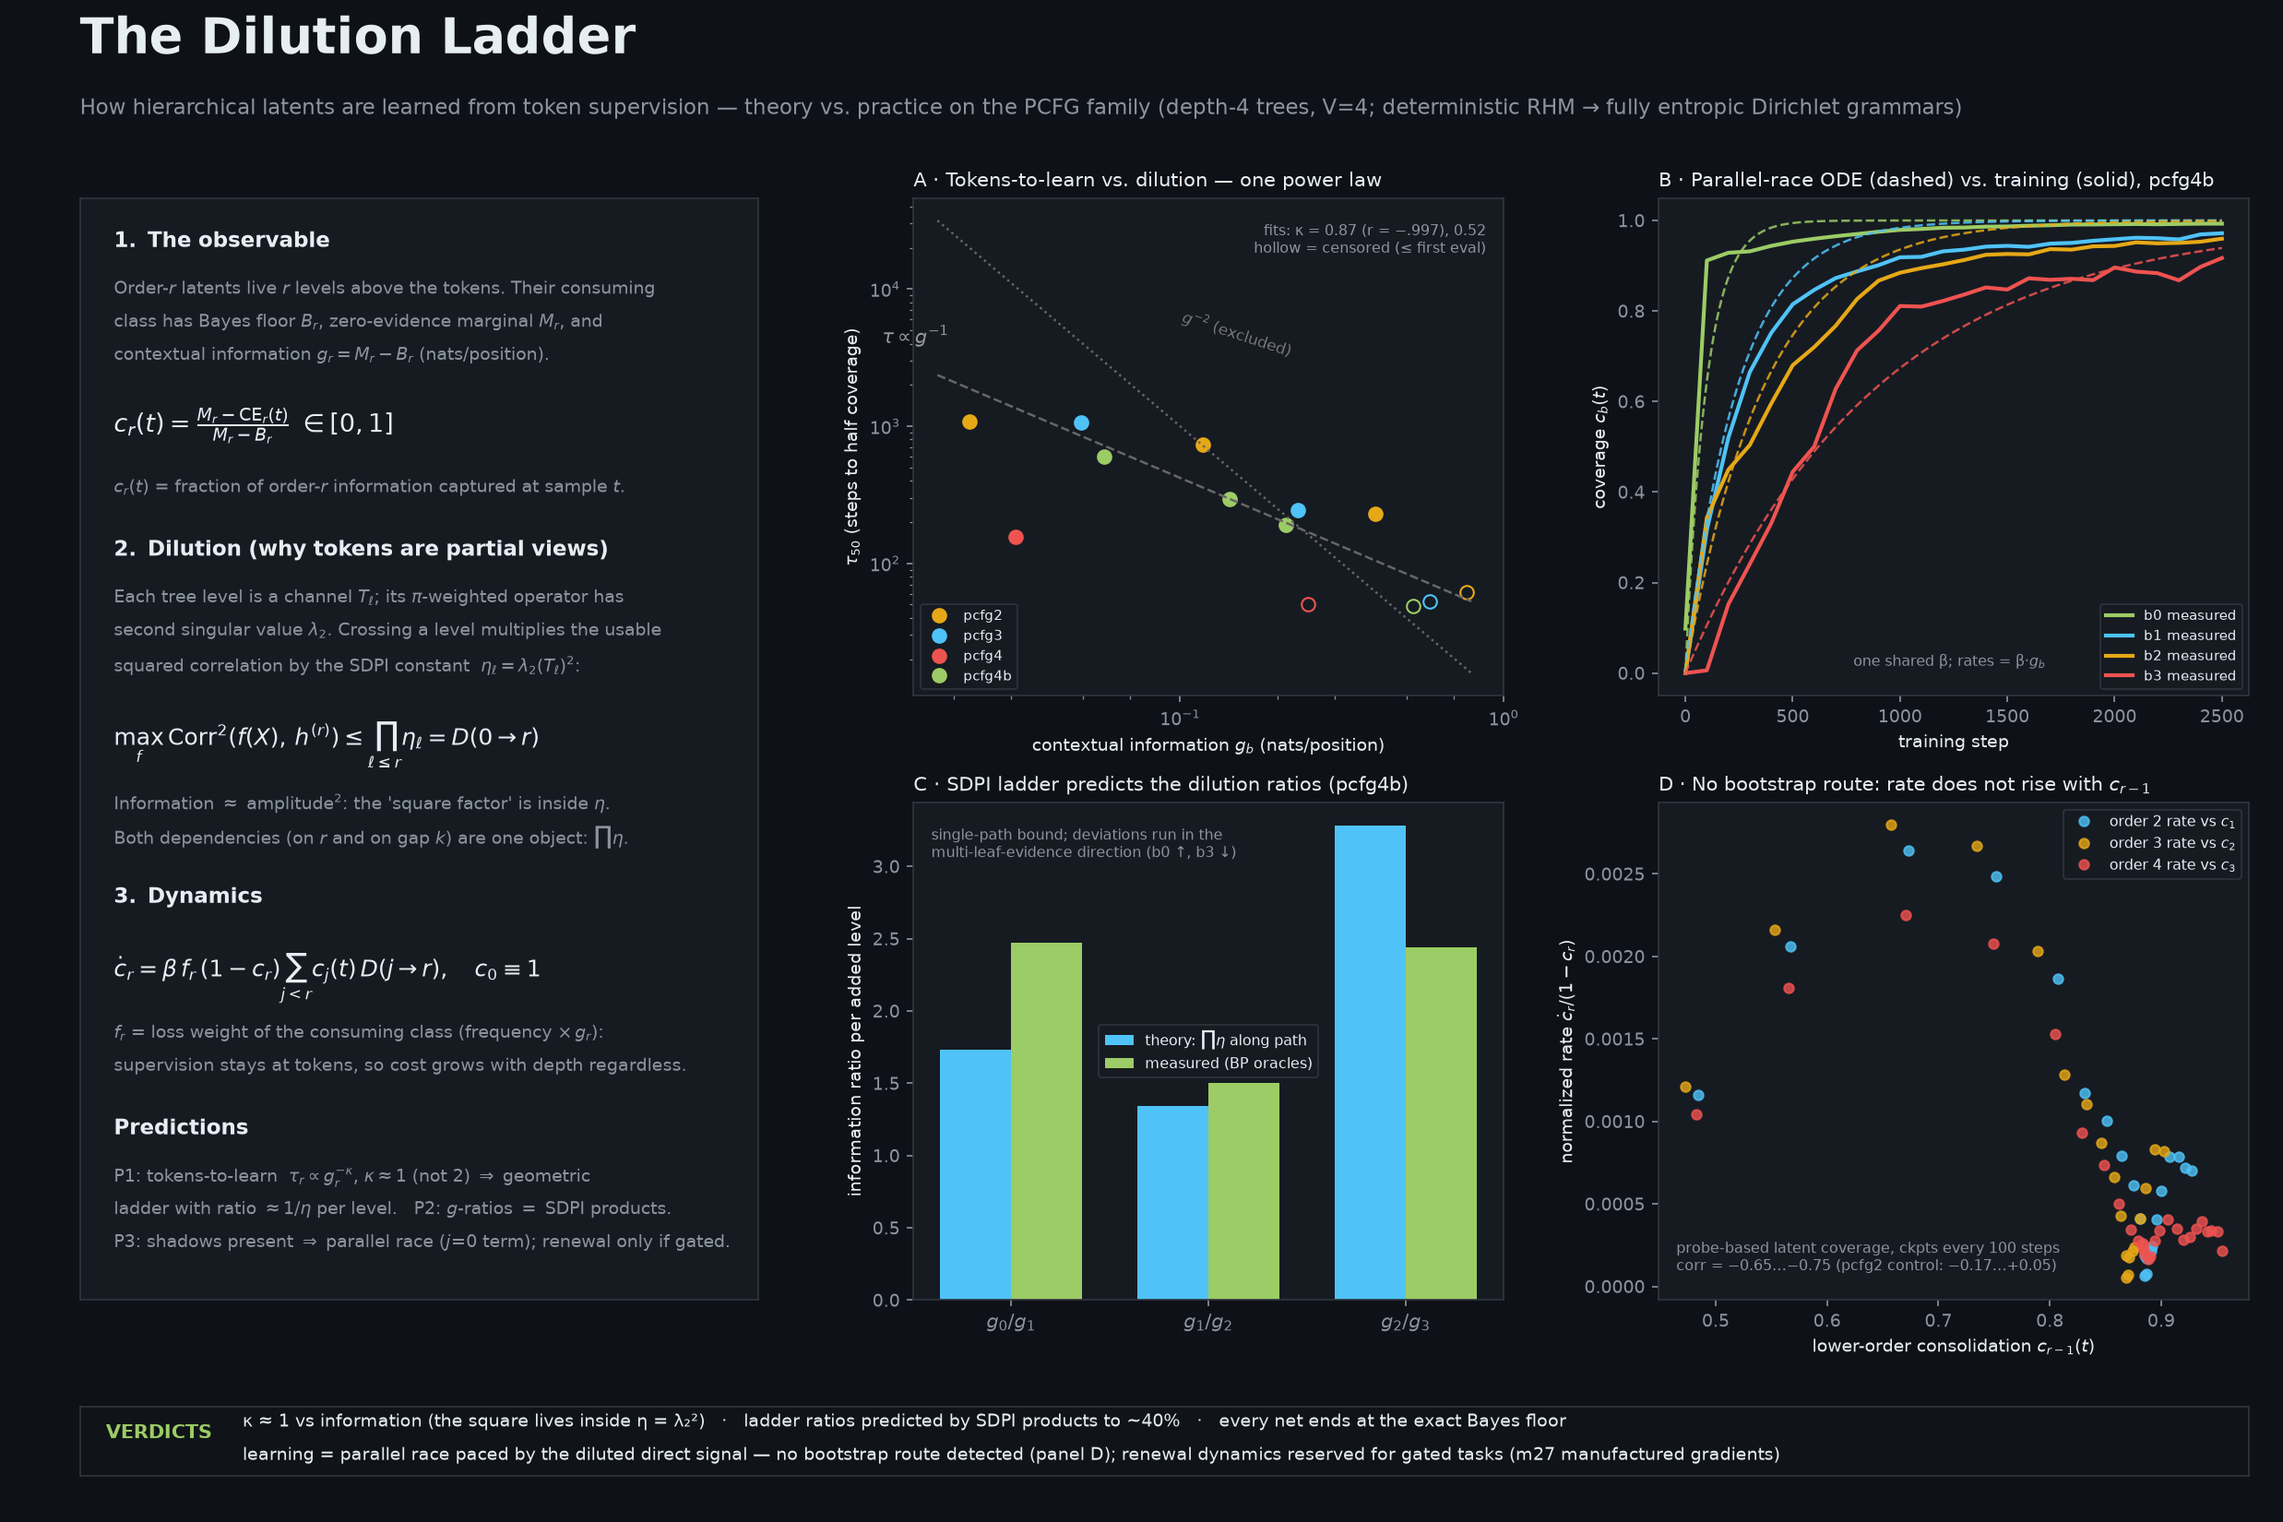
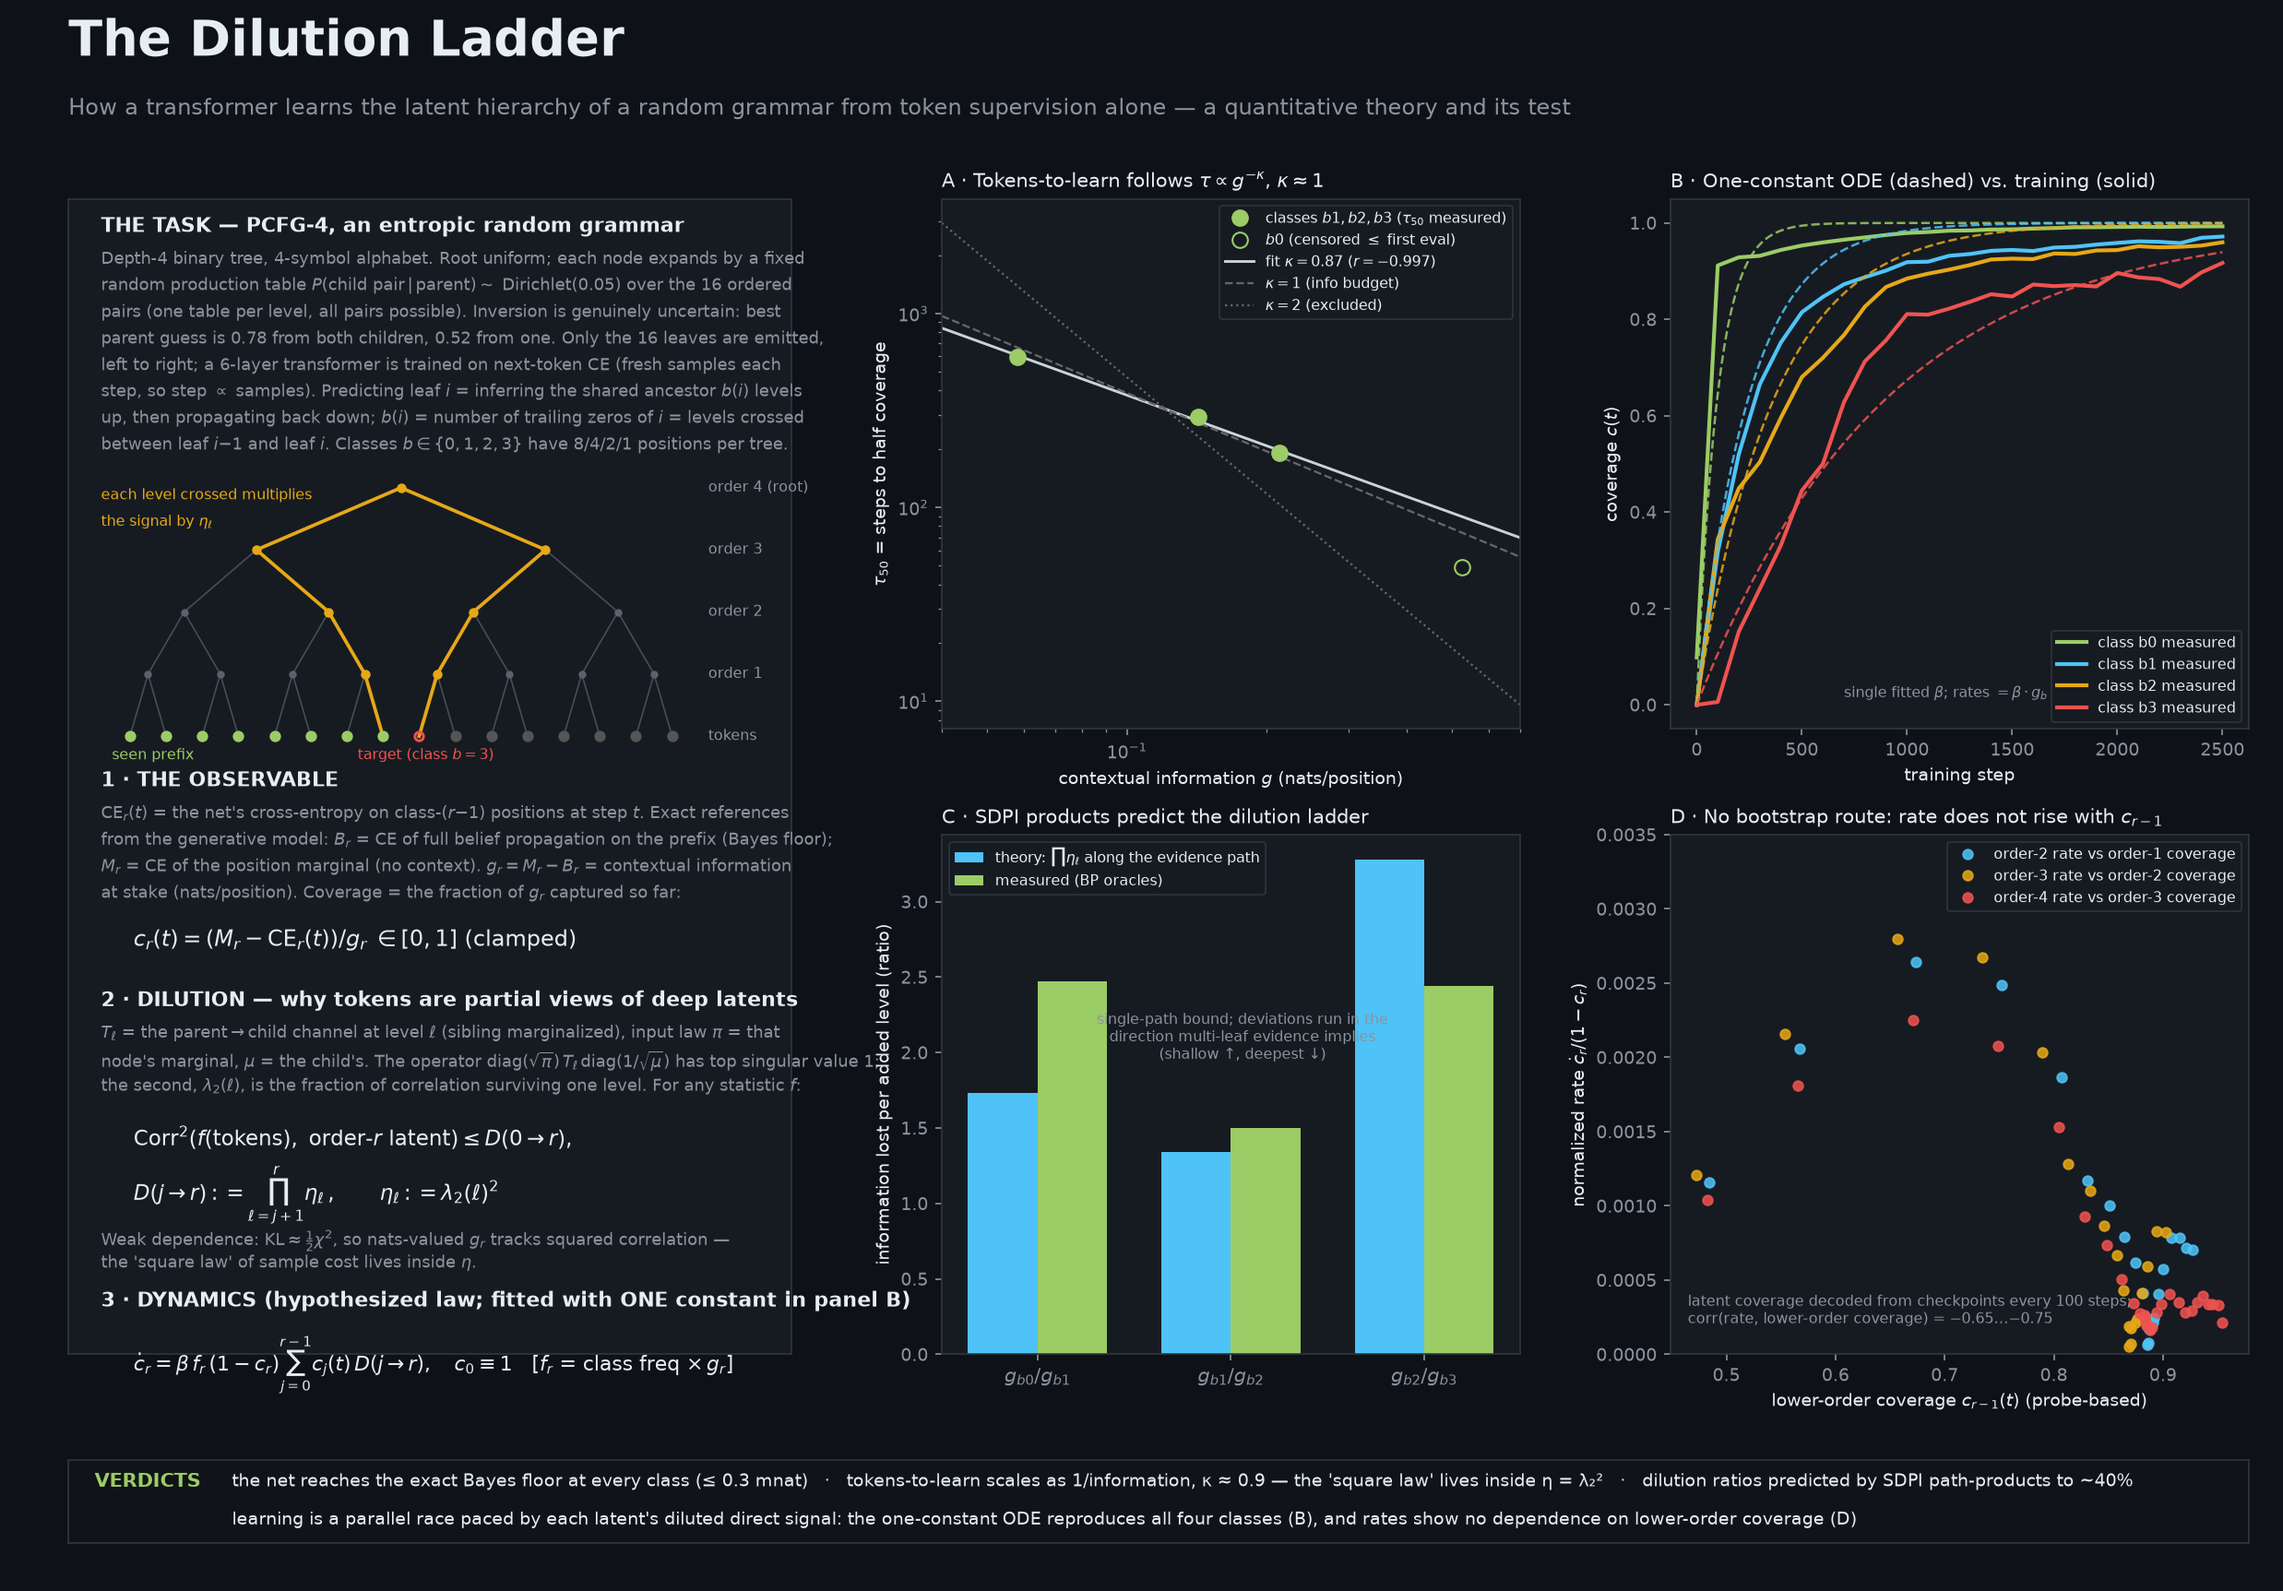
poster v2: single-task (PCFG-4) with task box + tree schematic; theory text repaired against Codex fresh-eyes review

diff --git a/correction_geometry/poster_ladder2.py b/correction_geometry/poster_ladder2.py
@@ -1,0 +1,178 @@
+import json
+import numpy as np
+import matplotlib
+matplotlib.use("Agg")
+import matplotlib.pyplot as plt
+import matplotlib.ticker as mtick
+from matplotlib.gridspec import GridSpec
+
+BG, PANEL, FG, DIM = "#0e1117", "#161b22", "#e6edf3", "#8b949e"
+GRN, BLU, AMB, RED = "#9ccc65", "#4fc3f7", "#e6a817", "#ef5350"
+plt.rcParams.update({"text.color": FG, "axes.edgecolor": "#30363d", "axes.labelcolor": FG,
+                     "xtick.color": DIM, "ytick.color": DIM, "font.size": 9})
+
+fig = plt.figure(figsize=(16.5, 11.5), facecolor=BG)
+gs = GridSpec(3, 3, figure=fig, width_ratios=[1.25, 1, 1], height_ratios=[1.02, 1, 0.16],
+              left=0.03, right=0.985, top=0.875, bottom=0.03, wspace=0.24, hspace=0.28)
+
+fig.text(0.03, 0.965, "The Dilution Ladder", fontsize=26, weight="bold", color=FG)
+fig.text(0.03, 0.928, "How a transformer learns the latent hierarchy of a random grammar from token supervision alone — a quantitative theory and its test",
+         fontsize=11.5, color=DIM)
+
+# ================= LEFT: task + theory =================
+axL = fig.add_subplot(gs[:2, 0]); axL.set_facecolor(PANEL); axL.set_xticks([]); axL.set_yticks([])
+for s in axL.spines.values(): s.set_color("#30363d")
+
+def T(y, s, c=DIM, fs=8.6, w="normal", x=0.045):
+    axL.text(x, y, s, transform=axL.transAxes, fontsize=fs, color=c, va="top", weight=w)
+
+T(0.985, "THE TASK — PCFG-4, an entropic random grammar", FG, 10.5, "bold")
+T(0.955, "Depth-4 binary tree, 4-symbol alphabet. Root uniform; each node expands by a fixed")
+T(0.932, r"random production table $P(\mathrm{child\ pair}\,|\,\mathrm{parent}) \sim$ Dirichlet(0.05) over the 16 ordered")
+T(0.909, "pairs (one table per level, all pairs possible). Inversion is genuinely uncertain: best")
+T(0.886, "parent guess is 0.78 from both children, 0.52 from one. Only the 16 leaves are emitted,")
+T(0.863, "left to right; a 6-layer transformer is trained on next-token CE (fresh samples each")
+T(0.840, r"step, so step $\propto$ samples). Predicting leaf $i$ = inferring the shared ancestor $b(i)$ levels")
+T(0.817, r"up, then propagating back down; $b(i)$ = number of trailing zeros of $i$ = levels crossed")
+T(0.794, r"between leaf $i{-}1$ and leaf $i$. Classes $b \in \{0,1,2,3\}$ have 8/4/2/1 positions per tree.")
+
+# --- tree schematic (drawn in axes coords, y in [0.52, 0.775]) ---
+ytop, ybot = 0.750, 0.535
+def nx(l, i): return 0.06 + 0.80 * (i + 0.5) / (2 ** l)
+def ny(l): return ytop - (ytop - ybot) * l / 4
+up_path = {(4, 7), (3, 3), (2, 1), (1, 0), (0, 0)}
+dn_path = {(0, 0), (1, 1), (2, 2), (3, 4), (4, 8)}
+for l in range(4):
+    for i in range(2 ** l):
+        for ch in (2 * i, 2 * i + 1):
+            on = ((l, i) in up_path and (l + 1, ch) in up_path) or ((l, i) in dn_path and (l + 1, ch) in dn_path)
+            axL.plot([nx(l, i), nx(l + 1, ch)], [ny(l), ny(l + 1)], color=AMB if on else "#454d56",
+                     lw=1.8 if on else 0.8, transform=axL.transAxes, zorder=1)
+for l in range(5):
+    for i in range(2 ** l):
+        if l == 4:
+            c = GRN if i < 8 else ("#555" if i > 8 else RED)
+            axL.plot(nx(l, i), ny(l), "o", ms=4.5, color=c, transform=axL.transAxes, zorder=2,
+                     mfc="none" if i == 8 else c, mew=1.4)
+        else:
+            on = (l, i) in up_path or (l, i) in dn_path
+            axL.plot(nx(l, i), ny(l), "o", ms=4 if on else 3, color=AMB if on else "#5a636d",
+                     transform=axL.transAxes, zorder=2)
+for l, lab in ((4, "tokens"), (3, "order 1"), (2, "order 2"), (1, "order 3"), (0, "order 4 (root)")):
+    axL.text(0.885, ny(l), lab, transform=axL.transAxes, fontsize=7.5, color=DIM, va="center")
+axL.text(0.06, ybot - 0.02, "seen prefix", transform=axL.transAxes, fontsize=7.5, color=GRN)
+axL.text(0.40, ybot - 0.02, r"target (class $b{=}3$)", transform=axL.transAxes, fontsize=7.5, color=RED)
+axL.text(0.045, ytop - 0.01, "each level crossed multiplies", transform=axL.transAxes, fontsize=7.5, color=AMB)
+axL.text(0.045, ytop - 0.033, r"the signal by $\eta_\ell$", transform=axL.transAxes, fontsize=7.5, color=AMB)
+
+T(0.505, "1 · THE OBSERVABLE", FG, 10.5, "bold")
+T(0.475, r"$\mathrm{CE}_r(t)$ = the net's cross-entropy on class-$(r{-}1)$ positions at step $t$. Exact references")
+T(0.452, r"from the generative model: $B_r$ = CE of full belief propagation on the prefix (Bayes floor);")
+T(0.429, r"$M_r$ = CE of the position marginal (no context). $g_r = M_r - B_r$ = contextual information")
+T(0.406, r"at stake (nats/position). Coverage = the fraction of $g_r$ captured so far:")
+T(0.368, r"$c_r(t) = \left(M_r - \mathrm{CE}_r(t)\right) / g_r \;\in [0,1]$ (clamped)", FG, 11.5, x=0.09)
+
+T(0.315, "2 · DILUTION — why tokens are partial views of deep latents", FG, 10.5, "bold")
+T(0.285, r"$T_\ell$ = the parent$\to$child channel at level $\ell$ (sibling marginalized), input law $\pi$ = that")
+T(0.262, r"node's marginal, $\mu$ = the child's. The operator $\mathrm{diag}(\sqrt{\pi})\,T_\ell\,\mathrm{diag}(1/\sqrt{\mu})$ has top singular value 1;")
+T(0.239, r"the second, $\lambda_2(\ell)$, is the fraction of correlation surviving one level. For any statistic $f$:")
+T(0.198, r"$\mathrm{Corr}^2(f(\mathrm{tokens}),\ \mathrm{order}$-$r\ \mathrm{latent}) \leq D(0{\to}r)$,", FG, 11, x=0.09)
+T(0.163, r"$D(j{\to}r) := \prod_{\ell=j+1}^{r} \eta_\ell\,, \qquad \eta_\ell := \lambda_2(\ell)^2$", FG, 11, x=0.09)
+T(0.108, r"Weak dependence: $\mathrm{KL} \approx \frac{1}{2}\chi^2$, so nats-valued $g_r$ tracks squared correlation —")
+T(0.086, r"the 'square law' of sample cost lives inside $\eta$.")
+
+T(0.055, "3 · DYNAMICS (hypothesized law; fitted with ONE constant in panel B)", FG, 10.5, "bold")
+T(0.016, r"$\dot c_r = \beta\, f_r\, (1-c_r) \sum_{j=0}^{r-1} c_j(t)\, D(j{\to}r), \quad c_0 \equiv 1$   [$f_r$ = class freq $\times\, g_r$]", FG, 10.5, x=0.09)
+
+# ================= Panel A =================
+axA = fig.add_subplot(gs[0, 1]); axA.set_facecolor(PANEL)
+g = np.array([0.2127, 0.1421, 0.0582]); t50 = np.array([190, 293, 598])
+axA.loglog(g, t50, "o", color=GRN, ms=8, zorder=3, label=r"classes $b1,b2,b3$ ($\tau_{50}$ measured)")
+axA.loglog([0.5261], [49], "o", color=GRN, ms=8, mfc="none", label=r"$b0$ (censored $\leq$ first eval)")
+xs = np.logspace(np.log10(0.04), np.log10(0.7), 20)
+lgm, ltm = np.log(g).mean(), np.log(t50).mean()
+axA.loglog(xs, np.exp(ltm - 0.87 * (np.log(xs) - lgm)), "-", color="#c9d1d9", lw=1.4,
+           label=r"fit $\kappa = 0.87$ ($r=-0.997$)")
+axA.loglog(xs, np.exp(ltm - 1.0 * (np.log(xs) - lgm)), "--", color="#666", lw=1.1, label=r"$\kappa=1$ (info budget)")
+axA.loglog(xs, np.exp(ltm - 2.0 * (np.log(xs) - lgm)), ":", color="#666", lw=1.1, label=r"$\kappa=2$ (excluded)")
+axA.set_xlim(0.04, 0.7)
+axA.xaxis.set_major_locator(mtick.LogLocator(base=10, subs=(1.0,)))
+axA.xaxis.set_minor_formatter(mtick.NullFormatter())
+axA.set_xlabel(r"contextual information $g$ (nats/position)")
+axA.set_ylabel(r"$\tau_{50}$ = steps to half coverage")
+axA.set_title(r"A · Tokens-to-learn follows $\tau \propto g^{-\kappa}$, $\kappa \approx 1$", fontsize=10, color=FG, loc="left")
+axA.legend(fontsize=7.5, facecolor=PANEL, labelcolor=FG, edgecolor="#30363d", loc="upper right")
+
+# ================= Panel B =================
+axB = fig.add_subplot(gs[0, 2]); axB.set_facecolor(PANEL)
+G = {0: 0.5261, 1: 0.2127, 2: 0.1421, 3: 0.0582}
+M = {0: 0.9384, 1: 0.9654, 2: 1.2610, 3: 1.2378}
+rows = [json.loads(l) for l in open("runs/pcfg4a0.05_dense_seed0/eval.jsonl") if json.loads(l)["step"] <= 2500]
+steps = [r["step"] for r in rows]
+CB = [GRN, BLU, AMB, RED]
+for b in range(4):
+    cov = [max(0, min(1, (M[b] - r[f"ce_b{b}"]) / G[b])) for r in rows]
+    axB.plot(steps, cov, "-", color=CB[b], lw=2, label=f"class b{b} measured")
+eta_fit, dt = 0.0192, 5.0
+c = {b: 0.0 for b in range(4)}
+ts_m, cs_m = [], {b: [] for b in range(4)}
+t = 0.0
+while t <= 2500:
+    ts_m.append(t)
+    for b in range(4):
+        cs_m[b].append(c[b])
+        c[b] = min(1.0, c[b] + dt * eta_fit * G[b] * (1 - c[b]))
+    t += dt
+for b in range(4):
+    axB.plot(ts_m, cs_m[b], "--", color=CB[b], lw=1.2, alpha=0.85)
+axB.set_xlabel("training step"); axB.set_ylabel(r"coverage $c(t)$")
+axB.set_title("B · One-constant ODE (dashed) vs. training (solid)", fontsize=10, color=FG, loc="left")
+axB.legend(fontsize=7.5, facecolor=PANEL, labelcolor=FG, edgecolor="#30363d", loc="lower right")
+axB.text(0.30, 0.06, r"single fitted $\beta$; rates $= \beta \cdot g_b$", transform=axB.transAxes, fontsize=7.5, color=DIM)
+
+# ================= Panel C =================
+axC = fig.add_subplot(gs[1, 1]); axC.set_facecolor(PANEL)
+lab = [r"$g_{b0}/g_{b1}$", r"$g_{b1}/g_{b2}$", r"$g_{b2}/g_{b3}$"]
+pred, meas = [1.73, 1.34, 3.28], [2.47, 1.50, 2.44]
+x = np.arange(3)
+axC.bar(x - 0.18, pred, 0.36, color=BLU, label=r"theory: $\prod \eta_\ell$ along the evidence path")
+axC.bar(x + 0.18, meas, 0.36, color=GRN, label="measured (BP oracles)")
+axC.set_xticks(x); axC.set_xticklabels(lab, fontsize=10)
+axC.set_ylabel("information lost per added level (ratio)")
+axC.set_title("C · SDPI products predict the dilution ladder", fontsize=10, color=FG, loc="left")
+axC.legend(fontsize=7.5, facecolor=PANEL, labelcolor=FG, edgecolor="#30363d")
+axC.text(0.52, 0.66, "single-path bound; deviations run in the\ndirection multi-leaf evidence implies\n(shallow ↑, deepest ↓)",
+         transform=axC.transAxes, fontsize=7.5, color=DIM, va="top", ha="center")
+
+# ================= Panel D =================
+axD = fig.add_subplot(gs[1, 2]); axD.set_facecolor(PANEL)
+dc = json.load(open("deriv_curves.json"))
+ts, pro = dc["steps"], {int(k): v for k, v in dc["probe"].items()}
+def sm(v): return [sum(v[max(0, i-1):i+2]) / len(v[max(0, i-1):i+2]) for i in range(len(v))]
+for r, col in ((2, BLU), (3, AMB), (4, RED)):
+    cs, cp = sm(pro[r]), sm(pro[r - 1])
+    X, Y = [], []
+    for i in range(1, len(cs) - 1):
+        if 0.05 < cs[i] < 0.92:
+            X.append(cp[i]); Y.append(((cs[i+1] - cs[i-1]) / (ts[i+1] - ts[i-1])) / max(1 - cs[i], 0.08))
+    axD.plot(X, Y, "o", color=col, ms=5, alpha=0.85, label=f"order-{r} rate vs order-{r-1} coverage")
+axD.set_xlabel(r"lower-order coverage $c_{r-1}(t)$ (probe-based)")
+axD.set_ylabel(r"normalized rate $\dot c_r/(1-c_r)$")
+axD.set_title(r"D · No bootstrap route: rate does not rise with $c_{r-1}$", fontsize=10, color=FG, loc="left")
+axD.set_ylim(0, 0.0035)
+axD.legend(fontsize=7.5, facecolor=PANEL, labelcolor=FG, edgecolor="#30363d", loc="upper right")
+axD.text(0.03, 0.06, "latent coverage decoded from checkpoints every 100 steps;\ncorr(rate, lower-order coverage) = −0.65…−0.75",
+         transform=axD.transAxes, fontsize=7.5, color=DIM)
+
+# ================= verdict =================
+axV = fig.add_subplot(gs[2, :]); axV.set_facecolor("#101418"); axV.set_xticks([]); axV.set_yticks([])
+for s in axV.spines.values(): s.set_color("#30363d")
+axV.text(0.012, 0.74, "VERDICTS", fontsize=10, weight="bold", color=GRN, va="center")
+axV.text(0.075, 0.74, "the net reaches the exact Bayes floor at every class (≤ 0.3 mnat)   ·   tokens-to-learn scales as 1/information, "
+         "κ ≈ 0.9 — the 'square law' lives inside η = λ₂²   ·   dilution ratios predicted by SDPI path-products to ~40%",
+         fontsize=9, color=FG, va="center")
+axV.text(0.075, 0.28, "learning is a parallel race paced by each latent's diluted direct signal: the one-constant ODE reproduces all four classes (B), "
+         "and rates show no dependence on lower-order coverage (D)",
+         fontsize=9, color=FG, va="center")
+plt.savefig("poster_dilution_ladder.png", dpi=150, facecolor=BG)
+print("saved")
